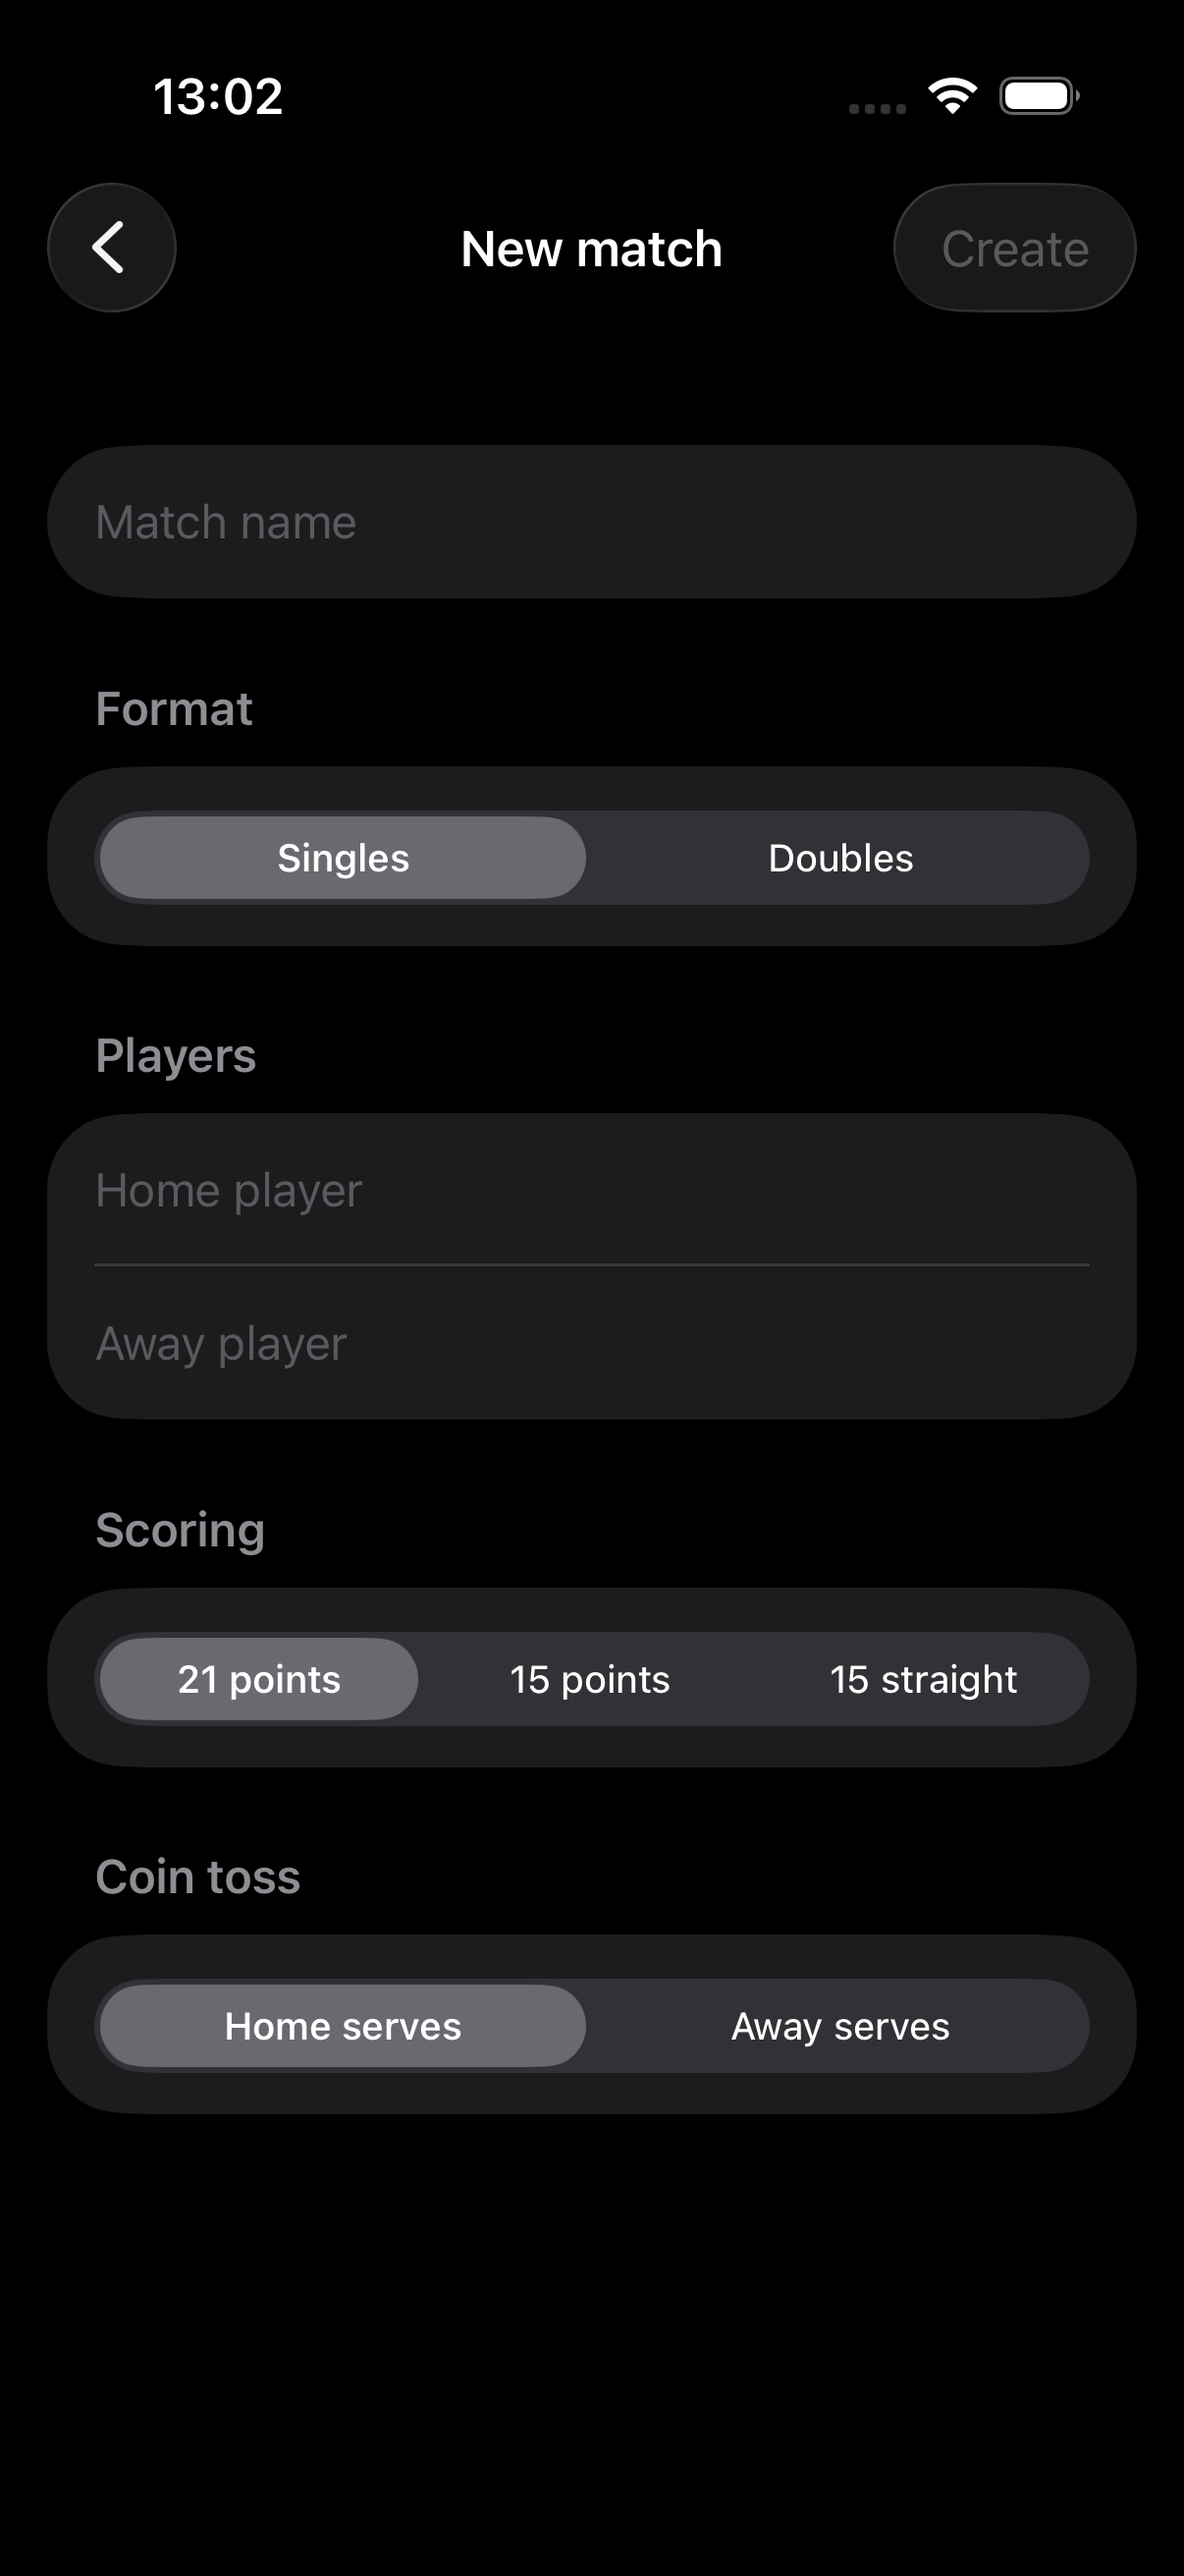
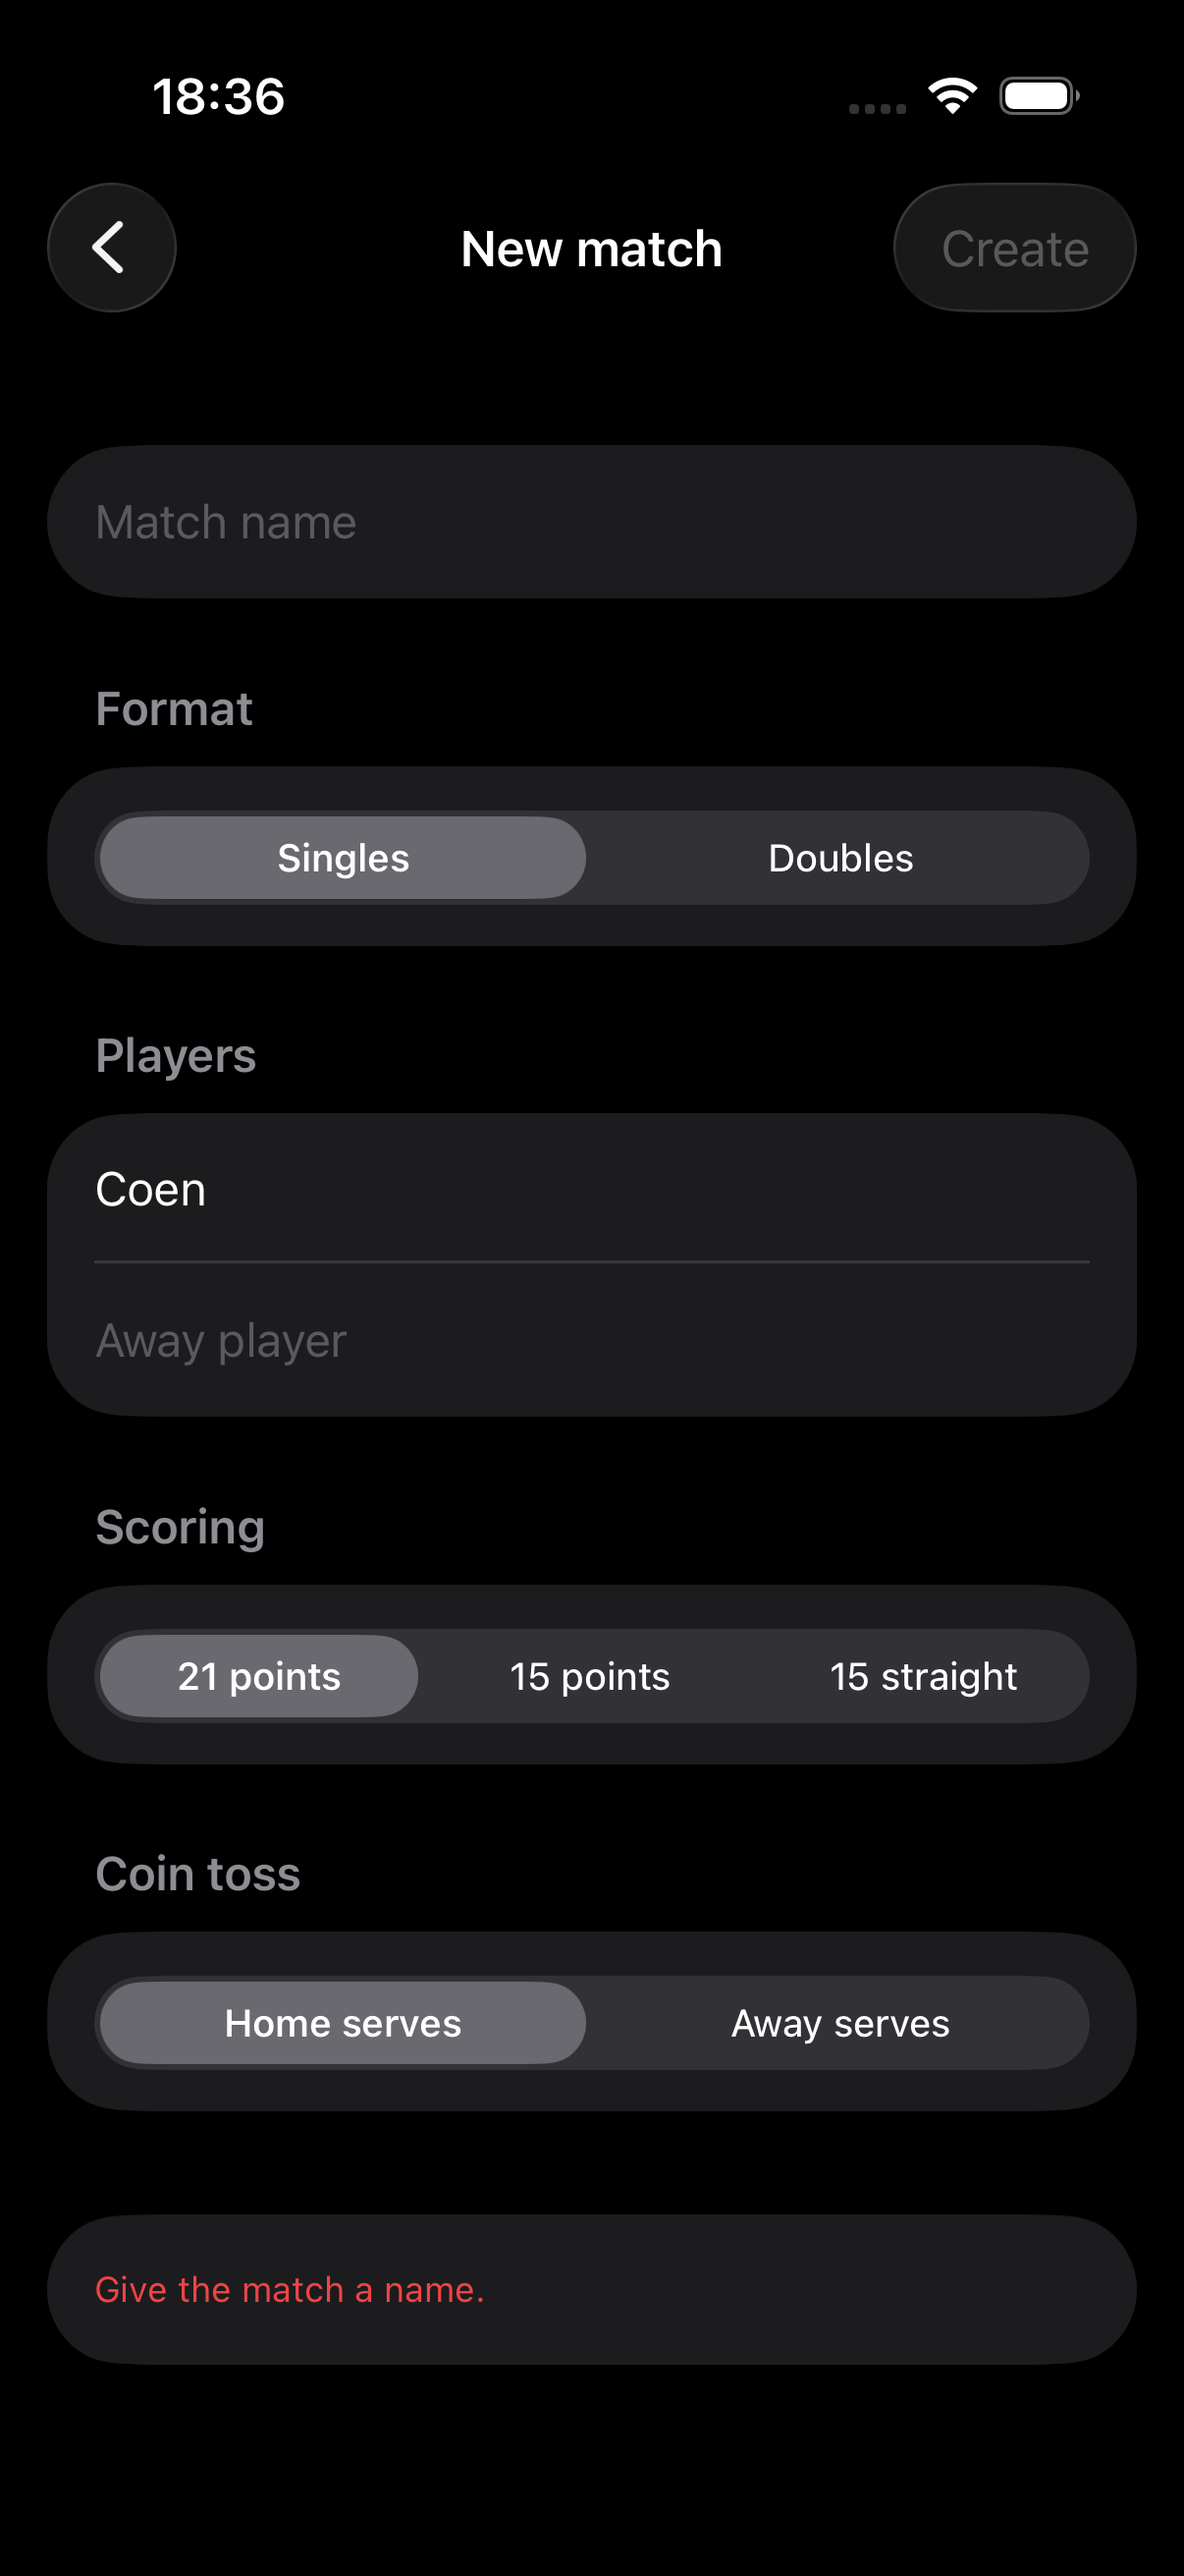
fix: final review wave - accent Done button, error token, textMuted guard
I1: ScoringView's "Done" button used .buttonStyle(.borderedProminent), which
renders in system blue with a system corner radius and SF instead of the
app's accent-filled pill, since no AccentColor asset or .tint is set. Rebuilt
it as an inline capsule (accent background, onAccent foreground, Capsule
clip), matching the pattern already established at MatchView's
AttachStatusBanner buttons, without changing the button's padding or its
position in the row.

I2: NewMatchView's validation message used a literal .red instead of
Shuttl.error, the same token Android's colorScheme.error reaches for and the
one ClipListView already documents as the correct choice for this exact kind
of text.

I3: textMuted's doc comment and its accessibility test only ever covered bg,
its one intended consumer. It fails its own 3.0:1 large-text floor on
bgTertiary (2.920:1 light / 2.939:1 dark, measured independently and
confirmed correct against the review's numbers, with bgSecondary actually
clearing 3.0 unlike the review's wording). Documented the limitation with the
measured ratios on both platforms and extended the existing test with an
assertion that pins the bgTertiary failure, so a future value change is
forced to notice which surfaces it stops or starts being valid on. No colour
value changed.

diff --git a/iosApp/Tests/ShuttlPaletteTests.swift b/iosApp/Tests/ShuttlPaletteTests.swift
@@ -74,6 +74,18 @@ final class ShuttlPaletteTests: XCTestCase {
             // from textTertiary rather than the same grey used at two sizes.
             XCTAssertGreaterThanOrEqual(ratio, 3.0, "\(theme) textMuted fails large-text contrast")
             XCTAssertLessThan(ratio, 4.5, "\(theme) textMuted now clears the body threshold; fold it into textTertiary")
+
+            // This next assertion looks backwards - it asserts a FAILURE - but
+            // that is the honest constraint. textMuted was only ever measured
+            // against `bg`, its one intended consumer (phase 2's hero line). On
+            // `bgTertiary` it does not clear this same 3.0:1 large-text floor
+            // (2.920:1 light / 2.939:1 dark). Pinning that failure means if
+            // someone later "improves" textMuted until this goes green, they are
+            // forced to notice they have changed which surfaces it is valid on,
+            // rather than silently gaining a surface no one verified. Text on a
+            // raised surface must use textTertiary, not textMuted.
+            let raisedRatio = contrast(pick(ShuttlPalette.textMuted), pick(ShuttlPalette.bgTertiary))
+            XCTAssertLessThan(raisedRatio, 3.0, "\(theme) textMuted now clears bgTertiary; textMuted may be safe on raised surfaces now, update the doc comment and this test to say so")
         }
     }
 

diff --git a/androidApp/src/test/java/com/badmintontracker/android/ui/theme/ShuttlPaletteTest.kt b/androidApp/src/test/java/com/badmintontracker/android/ui/theme/ShuttlPaletteTest.kt
@@ -77,6 +77,20 @@ class ShuttlPaletteTest {
                 // textTertiary used at two sizes.
                 ratio.shouldBeLessThan(4.5)
             }
+
+            // This next assertion looks backwards - it asserts a FAILURE - but
+            // that is the honest constraint. textMuted was only ever measured
+            // against bg, its one intended consumer (phase 2's hero line). On
+            // bgTertiary it does not clear this same 3.0:1 large-text floor
+            // (2.920:1 light / 2.939:1 dark). Pinning that failure means if
+            // someone later "improves" textMuted until this goes green, they are
+            // forced to notice they have changed which surfaces it is valid on,
+            // rather than silently gaining a surface no one verified. Text on a
+            // raised surface must use textTertiary, not textMuted.
+            val raisedRatio = contrast(pick(ShuttlPalette.textMuted), pick(ShuttlPalette.bgTertiary))
+            withClue("$theme textMuted on bgTertiary now clears 3.0; textMuted may be safe on raised surfaces now, update the doc comment and this test to say so") {
+                raisedRatio.shouldBeLessThan(3.0)
+            }
         }
     }
 

diff --git a/iosApp/Sources/Scoring/ScoringView.swift b/iosApp/Sources/Scoring/ScoringView.swift
@@ -412,7 +412,16 @@ struct ScoringView: View {
                     // before Done is reachable - but it stays wired the same way
                     // Android's does, for the undo-then-refinish case the comment
                     // on `addVideoAsked` describes.
-                    Button("Done") { deliverFinish(nil) }.buttonStyle(.borderedProminent)
+                    Button(action: { deliverFinish(nil) }) {
+                        Text("Done")
+                            .font(.body.weight(.semibold))
+                            .foregroundStyle(Shuttl.onAccent)
+                            .padding(.horizontal, 12)
+                            .padding(.vertical, 6)
+                            .background(Shuttl.accent)
+                            .clipShape(Capsule())
+                    }
+                    .buttonStyle(.borderless)
                 }
             }
             .padding(.horizontal, 12)

diff --git a/iosApp/Sources/Theme/ShuttlPalette.swift b/iosApp/Sources/Theme/ShuttlPalette.swift
@@ -24,6 +24,12 @@ enum ShuttlPalette {
     static let textTertiary:    Pair = (0x5F6763, 0x7F8682)
     /// The hero line, and nothing else. Below the 4.5:1 body threshold by
     /// design; see ShuttlPaletteTests.testMutedTextClearsLargeTextThresholdOnly.
+    ///
+    /// Verified only against `bg`, its one intended consumer: 3.351:1 light /
+    /// 3.230:1 dark. On `bgSecondary` it is 3.115:1 light / 3.048:1 dark, and
+    /// on `bgTertiary` it drops to 2.920:1 light / 2.939:1 dark, below the
+    /// 3.0:1 large-text floor it otherwise clears. Do not put it on a raised
+    /// surface; use `textTertiary` there instead.
     static let textMuted:       Pair = (0x878E8A, 0x5D6462)
     /// A fill colour. Accent-coloured TEXT uses `accentDark`.
     static let accent:          Pair = (0x16A34A, 0x3EE27C)

diff --git a/androidApp/src/main/java/com/badmintontracker/android/ui/theme/ShuttlPalette.kt b/androidApp/src/main/java/com/badmintontracker/android/ui/theme/ShuttlPalette.kt
@@ -28,6 +28,12 @@ internal object ShuttlPalette {
     /**
      * The hero line, and nothing else. Below the 4.5:1 body threshold by design;
      * see ShuttlPaletteTest.muted_text_clears_large_text_threshold_only.
+     *
+     * Verified only against [bg], its one intended consumer: 3.351:1 light /
+     * 3.230:1 dark. On [bgSecondary] it is 3.115:1 light / 3.048:1 dark, and
+     * on [bgTertiary] it drops to 2.920:1 light / 2.939:1 dark, below the
+     * 3.0:1 large-text floor it otherwise clears. Do not put it on a raised
+     * surface; use [textTertiary] there instead.
      */
     val textMuted       = Tone(0x878E8A, 0x5D6462)
 

diff --git a/iosApp/Sources/Scoring/NewMatchView.swift b/iosApp/Sources/Scoring/NewMatchView.swift
@@ -75,7 +75,11 @@ struct NewMatchView: View {
             }
 
             if touched, let problem {
-                Section { Text(problem).foregroundStyle(.red).font(.footnote) }
+                Section {
+                    // Shuttl.error rather than a literal red: it is the same
+                    // token Android reaches for (colorScheme.error) for this line.
+                    Text(problem).foregroundStyle(Shuttl.error).font(.footnote)
+                }
             }
         }
         .navigationTitle("New match")
